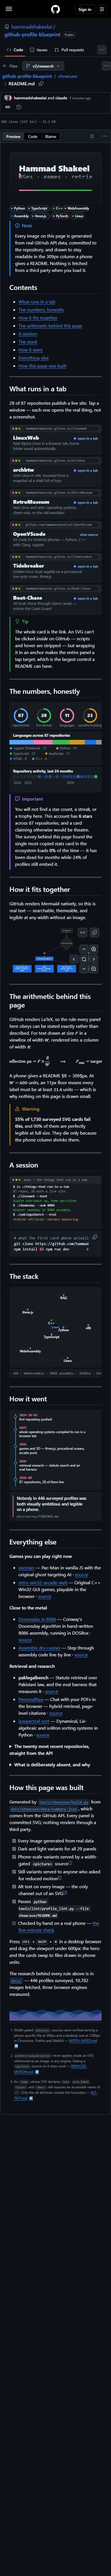
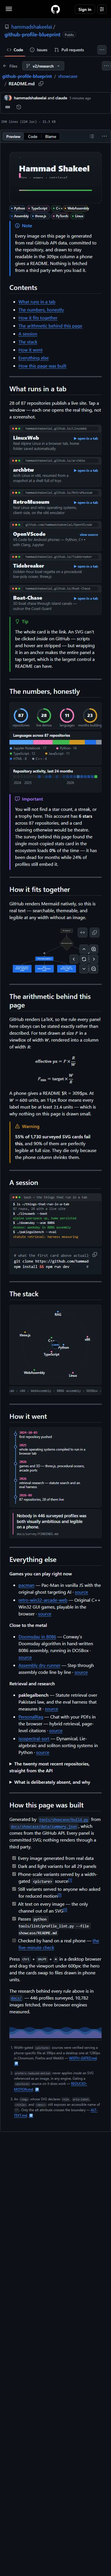
showcase: put the hero caret after the tagline instead of over its first letters

diff --git a/tools/showcase/panels.py b/tools/showcase/panels.py
@@ -131,7 +131,9 @@ def hero(p, name: str, line: str, motion: bool = True, width: int = W) -> str:
             + text(32, 88 * k + 20, name, big, p["text"], 800, canvas=width)
             + f'<clipPath id="tc"><rect x="32" y="{110 * k + 12}" height="{small * 1.6}" width="{tw if not motion else 0}">{reveal}</rect></clipPath>'
             + f'<g clip-path="url(#tc)">{text(32, 128 * k + 24, typed, small, p["muted"], family=MONO, canvas=width)}</g>'
-            + f'<rect x="32" y="{110 * k + 14}" width="{small * 0.5:.0f}" height="{small * 1.2:.0f}" '
+            # The caret belongs after the last character, not on top of the first.
+            + f'<rect x="{32 + len(line) * drawn * 0.6 + 6:.0f}" y="{110 * k + 14}" '
+              f'width="{drawn * 0.5:.0f}" height="{drawn * 1.2:.0f}" '
               f'fill="{p["hot"]}" opacity="1">{caret}</rect>')
     return svg(width, h, body, f"{name} — {line}")
 
